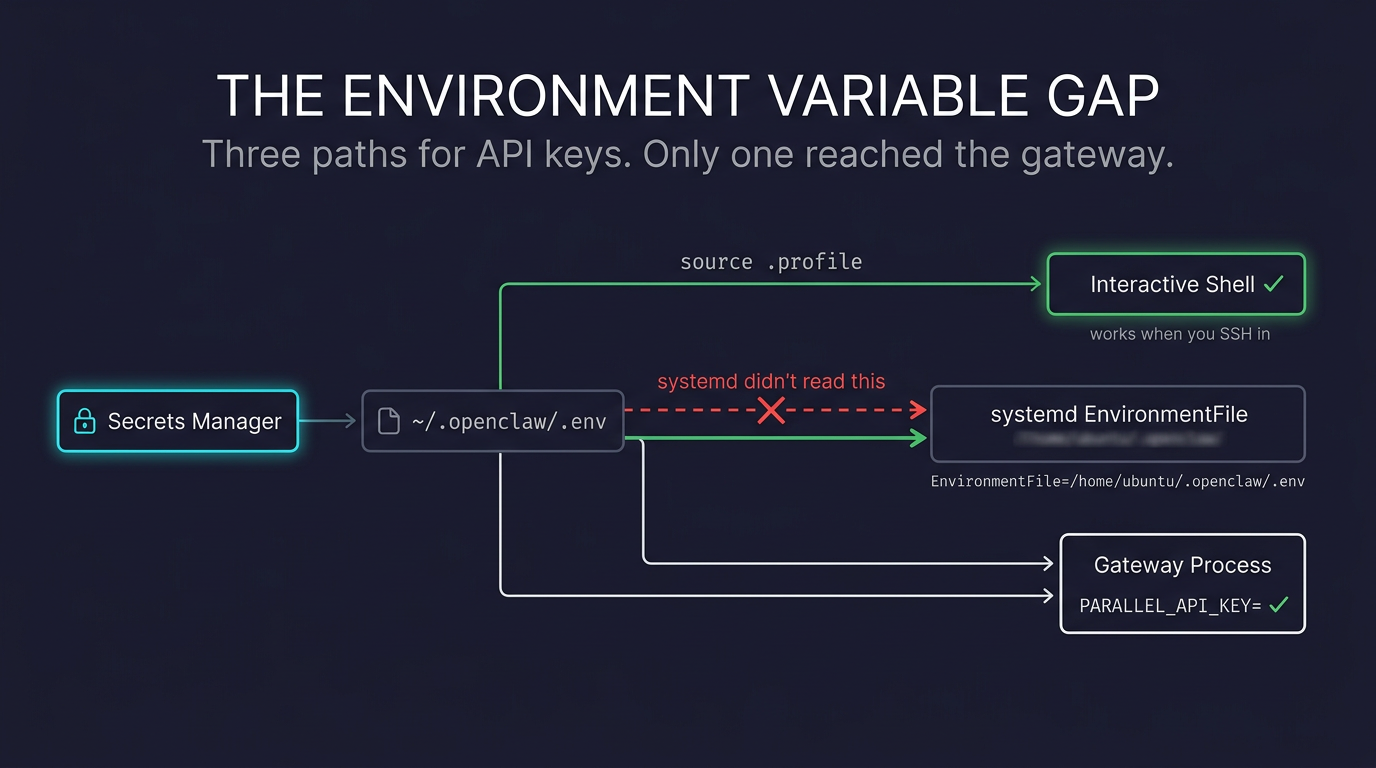
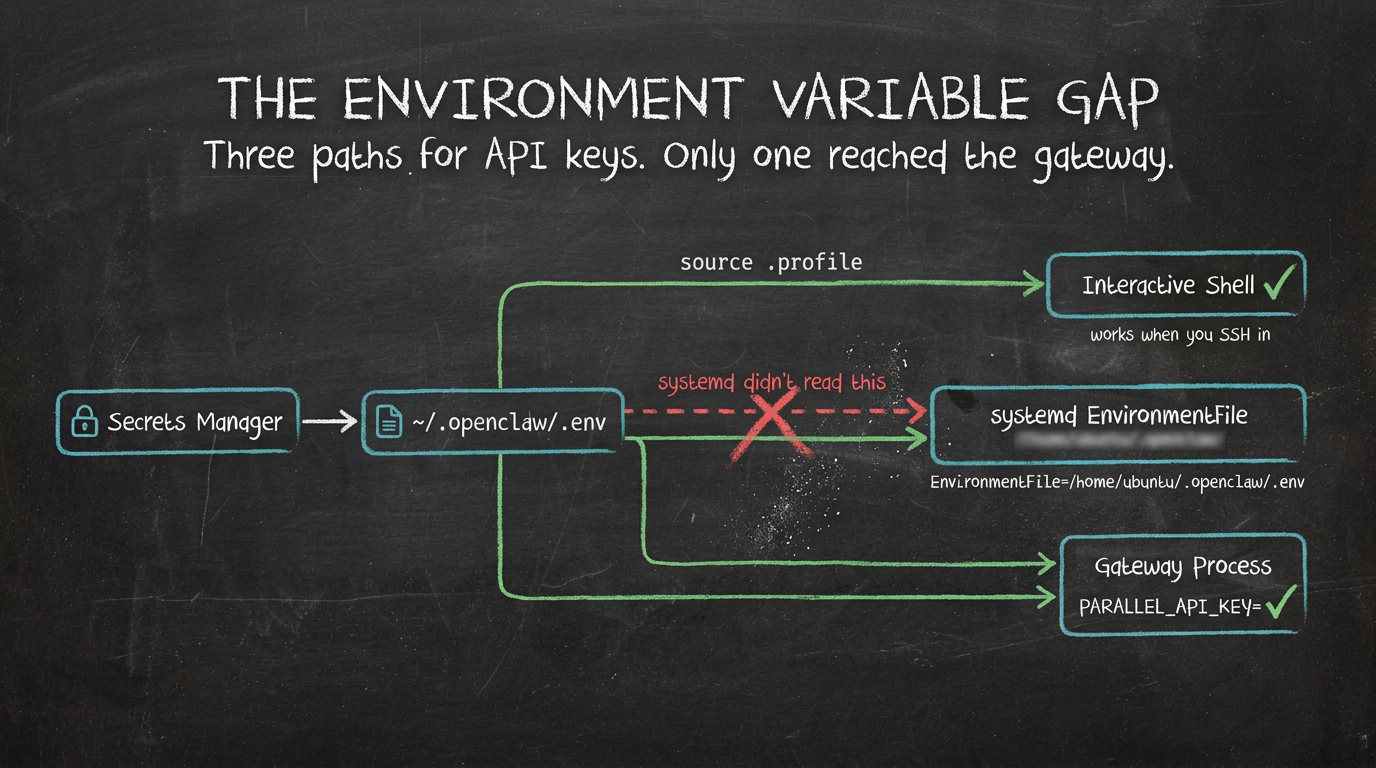
Replace all diagram images with chalkboard-style versions, feature all 12 in blog post
- Replace 12 diagram PNGs in public/blog/ with hand-drawn chalkboard recreations
- Add 6 missing diagrams to blog post so all 12 chalkboard images are featured:
  openclaw-system-architecture, voice-pipeline-horizontal, voice-to-knowledge-pipeline,
  knowledge-layers, with-skills, three-day-feedback-loop
- Remove stale screenshot-telegram-* alias files (unused after path fix)

diff --git a/src/data/blog-posts.ts b/src/data/blog-posts.ts
@@ -19,9 +19,23 @@ const main: BlogPost = {
 
 ---
 
-A note before you start: this is an engineering diary, not a tutorial. The mistakes are in here because the thought process is the thing. Polishing it into a case study would kill that.
+A note before you start: this is an engineering diary, not a tutorial. The mistakes are in here because the thought process is the thing. I did not start this knowing what I was doing. I was learning the paradigm while building it, improvising when things broke, and asking the AI for help at every step. Polishing that into a clean success story would miss the point entirely.
 
 All of this — deployment through voice pipeline through research library — happened over three days.
+
+---
+
+## Where This Started
+
+I had AWS credits left over from a hackathon. They were expiring.
+
+That is the real beginning. Not a grand architectural vision, not a carefully planned AI infrastructure project. Credits running out, and a question: could I turn them into something tangible before they disappeared?
+
+I had been circling OpenClaw for a while. It clearly had serious capability — a persistent agent, workspace-file-driven behavior, tool dispatch, multi-channel messaging — but I had kept putting off diving in. The paradigm was not obvious to me at first glance. How were the workspace files actually used? What did the model see? What constrained the agent's behavior and what didn't? I had enough of a sense of what it could do to know I wanted to try it, but not enough to feel ready to start without understanding it better. So I had been watching it from a distance.
+
+The credits gave me a forcing function. The idea that crystallized was this: what if I deployed OpenClaw on AWS and used that as the basis for a local AWS meetup demo? Something concrete and running, not a slide deck. A working personal AI assistant on AWS infrastructure, explained by someone who had just built it. That framing kept the scope contained and the motivation honest. I was not trying to build the perfect production system. I was trying to build something real, understand it well enough to explain it, and show it to people.
+
+That is where this started.
 
 ---
 
@@ -44,6 +58,9 @@ Four pieces make the stack:
 ![The full stack: Telegram → EC2 → Bedrock, with S3, Transcribe, and GitHub in the loop](/blog/ai-stack-overview-dark-v2.png)
 *t4g.medium on Graviton, no public ports, Claude Sonnet 4.6 via Bedrock.*
 
+![OpenClaw System Architecture](/blog/openclaw-system-architecture.png)
+*One EC2 instance. One gateway process. All access via SSM. Bedrock called on every message — no inference on the instance itself.*
+
 The thing that makes this interesting isn't the stack — it's how you program it. Six markdown files on disk get injected into the prompt on every message. \`SOUL.md\` is the personality. \`USER.md\` is who you are. \`AGENTS.md\` is the operating manual. \`MEMORY.md\` is curated long-term facts. Together they're about 6,650 tokens — 3% of the model's context window. The bot always knows who it is, who it's talking to, and what its tools are, without you having to re-explain anything.
 
 To change the personality: edit \`SOUL.md\`, run \`make ship\`, send a message. Next response follows the new instructions. No redeployment, no restart, no config change. The programming language is English. The runtime is a language model. The deploy target is a filesystem.
@@ -54,16 +71,96 @@ To change the personality: edit \`SOUL.md\`, run \`make ship\`, send a message. 
 
 ## Three Days to Build It
 
-AWS credits from a hackathon, expiring. The local AWS meetup needed a demo. The harder constraint: I didn't understand OpenClaw yet — not the paradigm, not what the workspace files were doing, not why the agent behaved differently depending on their contents. The plan was to deploy first and understand by running.
+### Learning the Paradigm First
 
-The [official CloudFormation template](https://github.com/aws-samples/sample-OpenClaw-on-AWS-with-Bedrock) handled everything: IAM role, security groups, user-data script installing OpenClaw from npm, systemd service, Bedrock connected. Stack came up in 8 minutes.
+Before touching any infrastructure, I needed to understand what OpenClaw actually was. Not the marketing pitch — the mechanics. What did the model see on each message? How were the workspace files assembled into the prompt? What happened when you edited them mid-session? What could the agent call and what could it not?
 
-Then WhatsApp — and three hours of fighting a platform that wasn't designed for this use case. SSM port forwarding drops WebSocket connections; WhatsApp's pairing flow depends on them. Trying to work around it corrupted the config file twice. Then the health monitor started triggering automatic reconnects, which the underlying library retried on exponential backoff until the phone account got rate limited.
+The workspace-file model makes intuitive sense in retrospect, but before it clicked it was opaque. I spent time on that education before doing anything concrete. That matters for understanding why the bugs we hit were the bugs we hit — a lot of them came from assumptions about what the system was doing that turned out to be wrong.
+
+Once I felt like I had a rough working model of how OpenClaw operated, things moved quickly.
+
+### Finding the Right Starting Point
+
+I used to work on the team that maintained AWS samples for the SDK, so I already knew the ecosystem well. For any significant AWS use case, there are usually examples being actively maintained by the core team. My instinct when thinking about how to deploy OpenClaw on AWS was not to build from scratch — it was to find the sample.
+
+I had also seen Brooke's blog post about OpenClaw on Bedrock. In the comments, someone referenced the example repository. That pointer, combined with prior familiarity with the samples pattern, became the path I followed. It was not random repo hunting. It was a specific move based on knowing where to look and trusting what I would find there.
+
+The [official CloudFormation template](https://github.com/aws-samples/sample-OpenClaw-on-AWS-with-Bedrock) covered the hard parts: IAM role, security groups, a user-data script installing OpenClaw from npm, a systemd service, Bedrock connected. There is even a one-click launch path. I did not use it. I ran the CloudFormation commands myself, read what they were doing as they ran, and wrapped the steps in \`make\` targets so the deployment would be repeatable — not a sequence of commands I had to remember.
+
+The actual first move: I opened Cursor, loaded twenty dollars in credits, cloned the repo, and asked the AI to help me deploy it. No architecture diagrams, no design doc. Clone, load credits, ask. The stack came up in 8 minutes.
+
+### First Contact with the Running System
+
+Once the AWS side was up, I created an SSM session and tunneled through it to reach the OpenClaw control UI in a browser. This was the first time the system felt real — not just infrastructure I had deployed, but something with an actual interface I could use. I clicked around, understood what it was offering, and generated a QR code through the UI.
+
+I connected it to WhatsApp. It worked. I had a functioning bot, visible and interactive, running in AWS.
+
+### WhatsApp: Connected, Then Gone
+
+The WhatsApp path was not a deliberate platform choice. The reason I was on WhatsApp at all was situational: my Telegram number had been banned, apparently because of whatever the previous owner of that phone number had done before I ever had it. I had a help case open with Telegram trying to get it resolved. While I waited, WhatsApp was the workaround.
+
+When the QR pairing worked, that was a real win. But what followed was not clean.
+
+The SSM port forwarding kept dropping WebSocket connections. The health monitor kept triggering reconnects. Baileys, the library OpenClaw uses for WhatsApp's unofficial web protocol, retried on exponential backoff. After twenty-plus gateway restarts in one afternoon, I had a rate-limited phone number and a blocked account. [→ Bug 2](#bug-2-ssm-port-forwarding-and-websockets-dont-mix) [→ Bug 3](#bug-3-the-whatsapp-death-spiral)
 
 ![The WhatsApp Death Spiral](/blog/whatsapp-death-spiral.png)
-*Twenty gateway restarts, hundreds of failed reconnect attempts, one rate-limited phone number. [→ Bugs 2 & 3](#bug-2-ssm-port-forwarding-and-websockets-dont-mix)*
+*Twenty gateway restarts, hundreds of failed reconnect attempts, one rate-limited phone number.*
 
-Telegram: ten minutes. Bot token from @BotFather, one config key change, one restart. No QR codes, no pairing flows, no credential state to corrupt.
+There was a genuine "now what?" moment. The path I had been on was closed. The fallback was Telegram, which was the platform I had been waiting to get unblocked on in the first place.
+
+### Telegram: The Better Fit All Along
+
+My Telegram account situation eventually resolved — help case moved, enough time passed, something. I created a bot through BotFather, got a token, dropped it into the config, and restarted the service.
+
+Ten minutes. No QR codes, no pairing flows, no credential state to corrupt, no protocol that WhatsApp was actively trying to break.
+
+BotFather was one of the genuinely pleasant surprises of the whole build. The developer experience was designed exactly for this kind of workflow. Token in hand, one config key, done. The bot responded to the first test message as if it had been running for years.
+
+I was actually glad the WhatsApp path had closed. The process forced me toward the better platform for iterative development, even though I had not chosen it deliberately.
+
+### The Big Refactor
+
+Somewhere in the middle of all this — after Telegram was working, after the research system was roughed in — it became clear that the tool scripts needed more than cleanup. They needed to be rebuilt properly.
+
+This was not about code style. The scripts had grown organically and were increasingly hard for the model to reason about without full context. Every change was expensive in tokens and fragile in practice. I was burning Opus credits on tasks that should have been within Sonnet 4.6's reach, but the architecture was not simple enough for Sonnet to hold without losing something. Too much implicit coupling, too little modularity, too many things that had to be understood together to change anything safely.
+
+The fix was a real modularization effort. Not a cosmetic pass — a refactor with 196 Bats tests written alongside the changes. Something like thirty dollars in token spend across the refactor and all the bugs it surfaced. The commit history documents it.
+
+The goal was model economics and practical reliability: if the system was simple enough for Sonnet 4.6 to handle, I could stop depending on Opus for every non-trivial task. Smaller scripts, cleaner interfaces between them, testable in isolation. Once the refactor landed, the model could extend the system without needing the full context of everything that came before.
+
+### Skills as Operational Memory
+
+One pattern repeated throughout the build: whenever I figured out how to do something — how to run a deployment step, how to debug a systemd issue, how to structure a Bats test, how to handle the SSM environment correctly — I would stop and ask the AI to turn that into a reusable skill.
+
+Not documentation. Not comments. A structured, loadable instruction set that could be invoked in a future session without having to rediscover the same workflow from scratch.
+
+![Without Skills vs. With Skills](/blog/with-skills.png)
+*Same tokens, deeper thinking. Without skills, the AI explores broadly and fails often. With skills, the early branches are pre-solved.*
+
+This became a major part of how I worked. Every solved problem was a candidate for capture. The goal was compounding rather than resetting: each session should start from a richer operational baseline than the one before. The graph of skill creation over the three days tracks closely with the rate of real progress. That was not a coincidence. Skills were load-bearing infrastructure for the way I was working, not an afterthought.
+
+### The Bot's Character
+
+Something I noticed early and kept noticing: the bot was unusually ready to fix itself.
+
+I am not going to make claims about why at an architectural level — I cannot prove platform-specific things about why this system behaved differently from other AI interactions I have had. But behaviorally: it kept working a thread when something broke. It absorbed errors, attempted repairs, and kept going without stopping to ask permission. That changed the rhythm of working with it. It felt less like directing a tool and more like debugging alongside something that had its own momentum.
+
+The persona layer mattered more than I expected. I told it to talk to me like a Gen Z teenager — direct, not verbose, a little rude, will still do what I say but clearly finds me slightly annoying. Something like: *be a teenager who helps me but doesn't pretend to be thrilled about it.* The tone that came out was lighter and faster than a formally polite assistant would have been. Less ceremony, more momentum. It turned out that interface tone affected the ergonomics of actually using the system. I was glad I set it.
+
+What the bot was not: self-deploying. Even with good self-repair instincts and a GitHub token in hand, I still had to reinforce the behavior around pushing changes upstream. It would fix something, commit it, and stop there. The explicit protocol — push after every commit, pull before every read — had to be baked into the operational instructions before it held. [→ Bug 8](#bug-8-the-bot-committed-a-fix-and-didnt-push)
+
+### The Working Loop
+
+For most of the three days, my process was a simple feedback loop: something broke, I read the error, I fed it to the model in Cursor, the model produced a fix or a diagnostic step, I ran it, I fed the output back. Sometimes the error came from the AWS logs directly. Sometimes I copied Telegram output into Cursor. The channel did not matter — what mattered was that the loop was fast.
+
+When the SSM session state got too noisy — terminal memory overloading Cursor's context, the session becoming less coherent — I would shift the model into advisory mode. Instead of letting it drive the shell, I asked for the exact commands to run in sequence. I ran them myself, collected the output, and pasted it back. Human driving, AI navigating. Less elegant but more reliable when the environment was fighting both of us.
+
+![The Three-Day Feedback Loop](/blog/three-day-feedback-loop.png)
+*Two variants of the same cycle. Bot-driven when it could fix things itself. Human-driven when the environment got too noisy.*
+
+I used Sonnet 4.6 for most tasks. I escalated to Opus when Sonnet clearly could not break through — usually when the system state was complex and the task required holding a lot in context at once. Those escalations were conscious choices, not defaults.
+
+---
 
 The research system came next. The design was done before any code: flat JSON index (not a vector database — at 500 files the index fits in ~15k tokens, well within Sonnet's 200k window), async callbacks so the gateway doesn't hold open a connection for 10 minutes, OIDC-authenticated GitHub Actions for the notification loop. A research file lands in the repo, Actions rebuilds the index, SSM notifies the running gateway. No static credentials, no open ports.
 
@@ -74,6 +171,9 @@ OpenClaw, when it receives a voice message, downloads the file locally and appen
 ![Voice → Wiki](/blog/voice-to-wiki-conceptual.png)
 *The idea: voice memo becomes a wiki node. First we had to notice it wasn't happening. [→ Bug 6](#bug-6-voice-memos-were-silently-ignored)*
 
+![Voice to Knowledge: How a Voice Memo Becomes a Wiki Page](/blog/voice-pipeline-horizontal-draft.png)
+*Telegram → S3 → Transcribe → markdown → GitHub → knowledge base. $0.024/min. 60–120 seconds. Bot acknowledges in 2.*
+
 Building the actual pipeline was straightforward. What wasn't: deploying it and finding the bot denied it could transcribe audio at all. Moved the capability description to the top of \`AGENTS.md\`. Denied again.
 
 Checked the logs. The model wasn't Sonnet 4.6. It was Amazon Nova 2 Lite — a fast, cheap model optimized for speed, not instruction-following at long context. The model upgrade had been set in the config on the developer's machine, but the change had never been saved to the running config on EC2. Every response since deployment had come from Nova 2 Lite.
@@ -83,7 +183,11 @@ Checked the logs. The model wasn't Sonnet 4.6. It was Amazon Nova 2 Lite — a f
 
 One \`sed\` replacement to swap the model ID. The personality took hold. The protocols started working.
 
-With Sonnet 4.6 actually running, the tool scripts looked obviously rough. A half-day refactor, 196 Bats tests, and it felt stable enough to hand off to the model for maintenance.
+![Voice to Knowledge: The Full Pipeline](/blog/voice-to-knowledge-pipeline.png)
+*Nine steps. The transcription error lived in step three and didn't surface until step six.*
+
+![Knowledge Layers](/blog/knowledge-layers-conceptual.png)
+*Raw sources stay locked. The wiki is the working layer. Agent Governance — the workspace files — runs on every turn.*
 
 ---
 
@@ -98,7 +202,7 @@ The system runs on two rhythms.
 ![Two Loops: How OpenClaw Gets Smarter](/blog/two-loops-development-workflow.png)
 *Both loops write to the same repos. The bot commits during the phone loop. The human reviews during the laptop loop.*
 
-The "bot committed directly" part required governance that didn't exist until the bot demonstrated it needed it. It diagnosed a bug in its own git retry logic, wrote the fix, committed it — and didn't push. The fix sat on the EC2 instance for days, invisible. The agent had write access to its own infrastructure but no deployment discipline. Two things came out of this: an explicit self-maintenance protocol requiring push after every commit, and a \`make ship\` target that pushes to GitHub and syncs to EC2 in one command. [→ Bug 8](#bug-8-the-bot-committed-a-fix-and-didnt-push)
+The "bot committed directly" part required governance that didn't exist until the bot demonstrated it needed it. It diagnosed a bug in its own git retry logic, wrote the fix, committed it — and didn't push. The fix sat on the EC2 instance for days, invisible. The agent had write access to its own infrastructure but no deployment discipline. Two things came out of this: an explicit self-maintenance protocol requiring push after every commit, and a \`make ship\` Makefile target that pushes to GitHub and syncs to EC2 in one command, so there's no gap between "code is on GitHub" and "code is on EC2." [→ Bug 8](#bug-8-the-bot-committed-a-fix-and-didnt-push)
 
 The pipeline has data quality challenges the governance layer is still absorbing. AWS Transcribe heard "Lagos" where "Richmond" was said. The integration pass placed a birthplace there. The response: raw transcripts stay immutable, correction notes sit beside them, derived pages evolve. Git history shows both. It's not a prompting problem — speech-to-text has error rates, and LLM passes amplify them. [→ Bug 13](#bug-13-speech-to-text-errors-propagating-through-the-pipeline)
 
